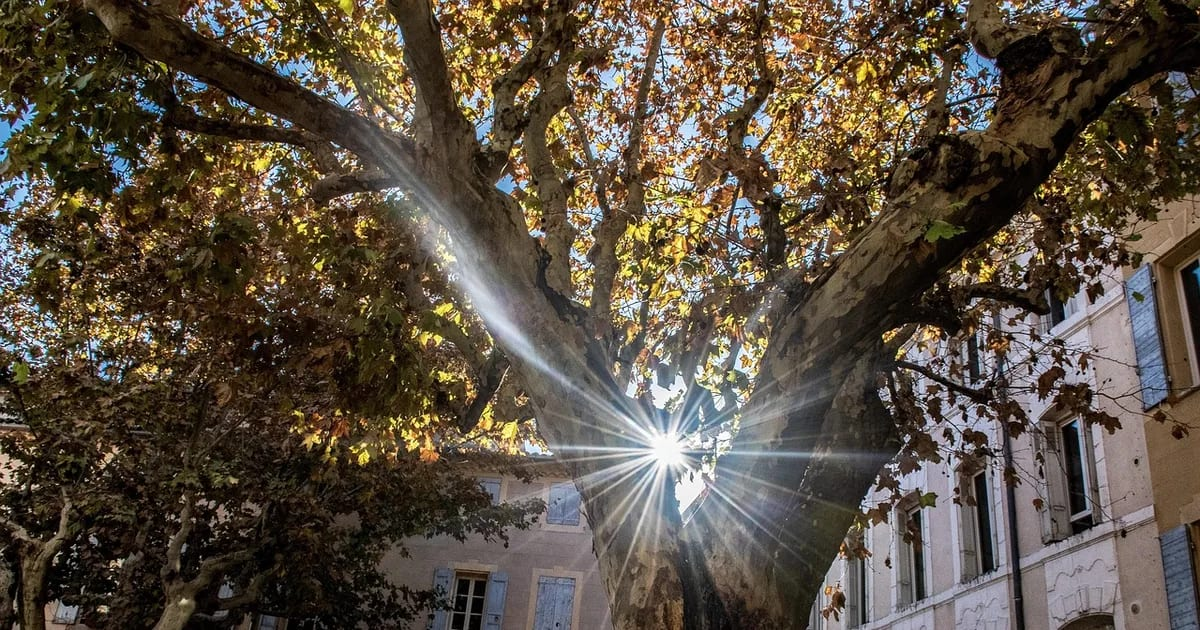
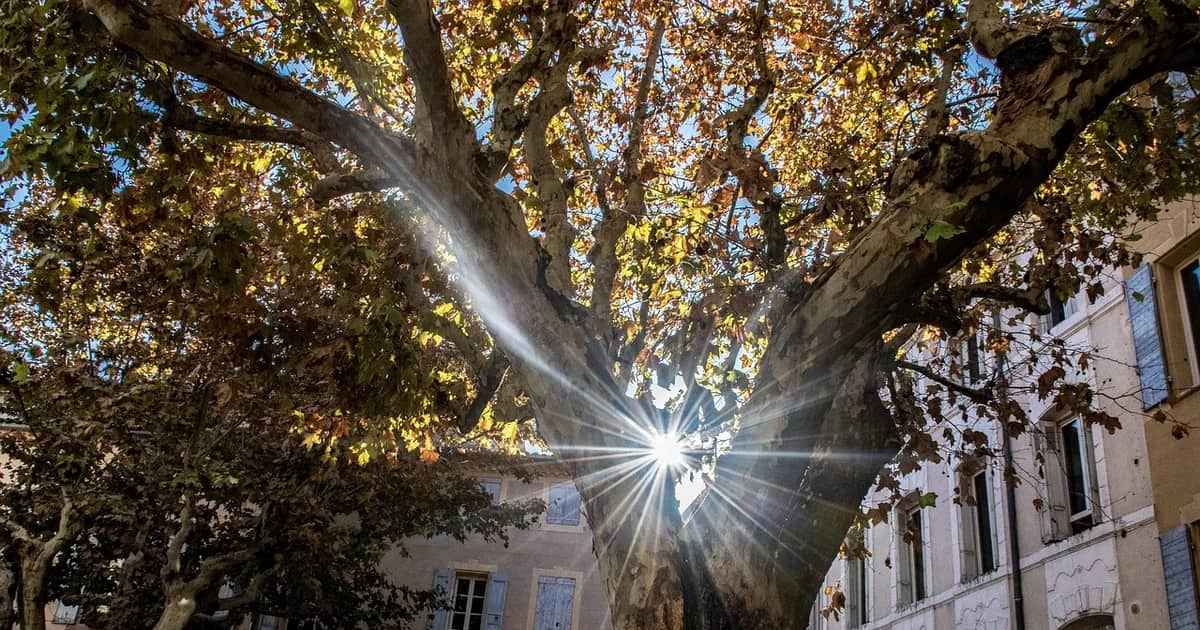
fix(og): générer les cartes Open Graph dès le build
Les cartes n'étaient produites que par un lancement manuel de `npm run og` :
chaque nouvel article publié par le bot retombait sur /og/default.jpg, d'où
des pages « sans image ».

- prebuild : toutes les cartes OG sont régénérées avant astro build
- les visuels hébergés sur images.guidemontessori.fr sont utilisés comme photo
- carte > 180 Ko réencodée automatiquement en qualité 68
- check:site échoue si une page d'article garde la carte OG par défaut
- cartes manquantes (9 pages) générées et committées

diff --git a/scripts/check_site.py b/scripts/check_site.py
@@ -15,12 +15,22 @@ class Page(HTMLParser):
         super().__init__()
         self.links = []
         self.h1 = 0
+        self.og_image = ''
 
     def handle_starttag(self, tag, attrs):
         if tag == 'a':
             self.links.append(dict(attrs))
         if tag == 'h1':
             self.h1 += 1
+        if tag == 'meta':
+            attrs = dict(attrs)
+            if attrs.get('property') == 'og:image':
+                self.og_image = attrs.get('content', '')
+
+
+def is_default_og(content):
+    """True si la carte OG est le visuel générique du site (article sans image)."""
+    return (not content) or '/og/default.jpg' in content
 
 
 def main():
@@ -37,6 +47,12 @@ def main():
         if page.h1 != 1:
             errors.append(f'{relative}: expected one H1, found {page.h1}')
         base = 'https://www.guidemontessori.fr/' + str(relative)
+        # Une page d'article sans carte OG propre retombe sur /og/default.jpg :
+        # c'est exactement le symptôme « article sans image ». On bloque.
+        parts = relative.parts
+        is_article = len(parts) == 3 and parts[0] in ('articles', 'actualites') and parts[2] == 'index.html'
+        if is_article and is_default_og(page.og_image):
+            errors.append(f'{relative}: og:image absente ou par défaut ({page.og_image or "vide"})')
         for anchor in page.links:
             href = anchor.get('href', '')
             url = urlsplit(urljoin(base, href))
